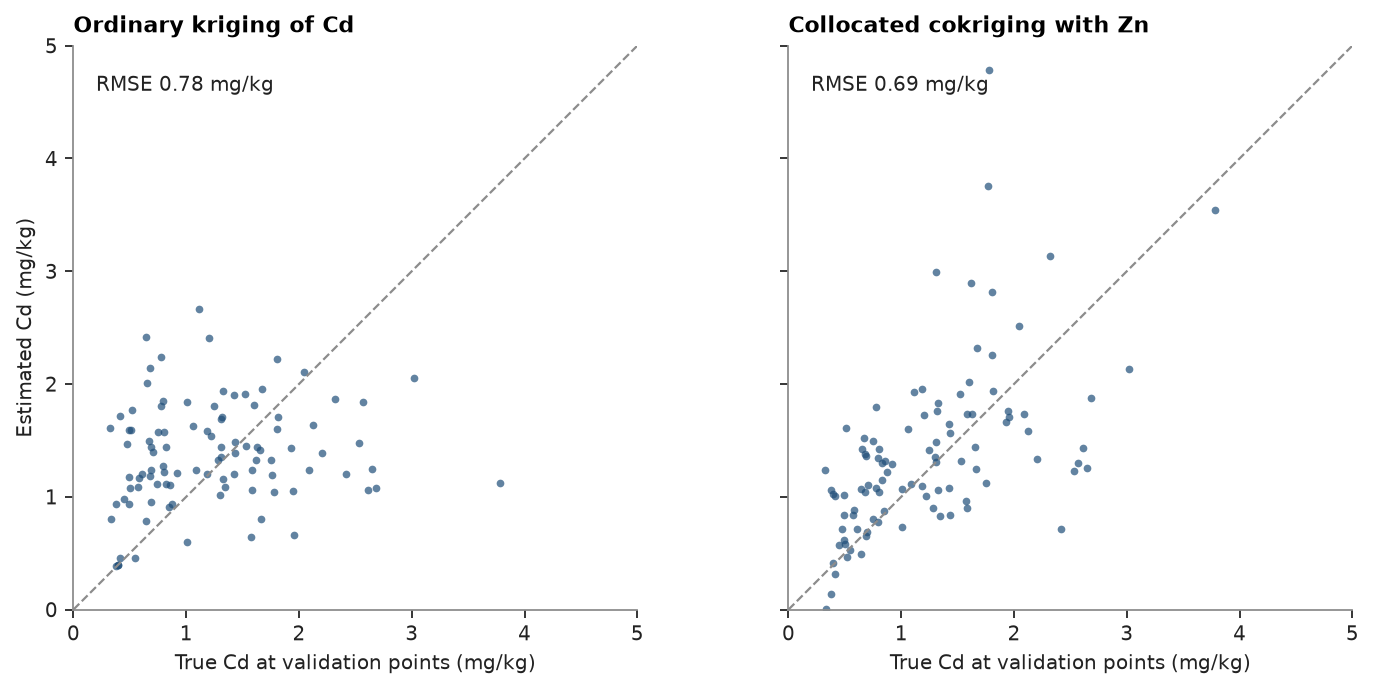
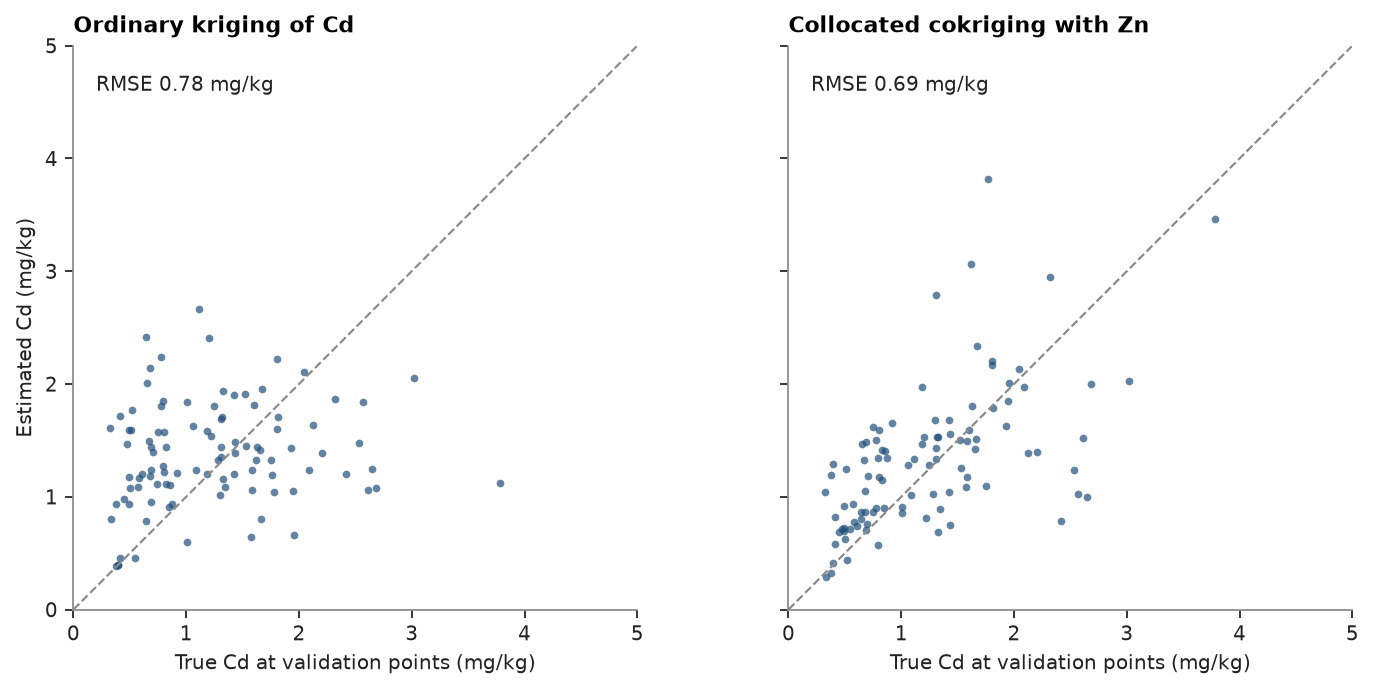
docs(examples): fit chapter 08's coregionalization automatically

diff --git a/examples/08-cokriging/example_08.py b/examples/08-cokriging/example_08.py
@@ -28,20 +28,25 @@ lag, max_lag = 0.1, 1.5
 
 
 # %% [markdown]
-# The coregionalization uses the intrinsic model: Cd and Zn share Cd's spherical structure and nugget share,
-# scaled by their covariance matrix.
+# The linear model of coregionalization is fitted to the Cd and Zn variograms and their cross-variogram, the half mean
+# product of the Cd and Zn increments between co-located samples, all together. The variables share the structures, a
+# nugget and two spherical ranges, and each structure's sill matrix stays positive semi-definite: its smallest
+# eigenvalue is never negative. The short structure takes the place of the nugget, which fits to zero.
 
 # %%
-cd_model = cs.experimental_variogram(xy, cd, lag, max_lag).fit("spherical")
-nugget_share = cd_model.nugget / cd_model.sill
-a = cd_model.structures[0].range
-print(f"Cd: nugget share {nugget_share:.2f}, range {a:.2f} km, corr(Cd, Zn) {rho:.2f}")
+experimentals = [
+    [
+        cs.experimental_variogram(xy, cd, lag, max_lag),
+        cs.experimental_variogram(xy, cd, lag, max_lag, other=zn),
+    ],
+    [None, cs.experimental_variogram(xy, zn, lag, max_lag)],
+]
+lmc = cs.Coregionalization.fit(experimentals, ["spherical", "spherical"])
+print(f"corr(Cd, Zn) {rho:.2f}")
+for name, matrix in [("nugget", lmc.nugget)] + [(f"{m} {a:.2f} km", s) for m, a, s in lmc.structures]:
+    print(f"{name}: {np.round(matrix, 3).tolist()}, smallest eigenvalue {np.linalg.eigvalsh(matrix)[0]:.3g}")
 
-cov = np.cov(cd, zn)
-lmc = cs.Coregionalization(
-    (nugget_share * cov).tolist(),
-    [("spherical", a, ((1 - nugget_share) * cov).tolist())],
-)
+cd_model = experimentals[0][0].fit("spherical")
 search = cs.Search(radius=1.5, max_samples=24, min_samples=4)
 ok = cs.OrdinaryKriging(cd_model, search).fit(xy, cd)
 ck = cs.Cokriging(lmc, search, means=[cd.mean(), zn.mean()])
@@ -49,18 +54,17 @@ ck.fit(np.vstack([xy, xy]), np.r_[cd, zn], [0] * len(cd) + [1] * len(zn))
 
 
 # %% [markdown]
-# The intrinsic model is only fitted to Cd, so check it against Zn and the cross-variogram, the half mean product of
-# the Cd and Zn increments between co-located samples. Each curve is the LMC's C(0) − C(h), and all three
-# experimental variograms scatter about the one shared shape:
+# Each curve is the fitted LMC's C(0) − C(h), and the three experimental variograms follow the shared short and long
+# structures in their own proportions:
 
 # %%
 h = np.linspace(0, max_lag, 101)[1:]
 origin = np.zeros((h.size, 3))
 away = np.c_[h, np.zeros((h.size, 2))]
 panels = (
-    (0, 0, "Cd", cs.experimental_variogram(xy, cd, lag, max_lag)),
-    (1, 1, "Zn", cs.experimental_variogram(xy, zn, lag, max_lag)),
-    (0, 1, "Cd × Zn", cs.experimental_variogram(xy, cd, lag, max_lag, other=zn)),
+    (0, 0, "Cd", experimentals[0][0]),
+    (1, 1, "Zn", experimentals[1][1]),
+    (0, 1, "Cd × Zn", experimentals[0][1]),
 )
 fig, axes = plt.subplots(1, 3, figsize=(10, 3.2), layout="constrained")
 for ax, (i, j, name, experimental) in zip(axes, panels):

diff --git a/examples/08-cokriging/README.md b/examples/08-cokriging/README.md
@@ -22,22 +22,27 @@ lag, max_lag = 0.1, 1.5
 
 </details>
 
-The coregionalization uses the intrinsic model: Cd and Zn share Cd's spherical structure and nugget share,
-scaled by their covariance matrix.
+The linear model of coregionalization is fitted to the Cd and Zn variograms and their cross-variogram, the half mean
+product of the Cd and Zn increments between co-located samples, all together. The variables share the structures, a
+nugget and two spherical ranges, and each structure's sill matrix stays positive semi-definite: its smallest
+eigenvalue is never negative. The short structure takes the place of the nugget, which fits to zero.
 
 <details><summary>Python</summary>
 
 ```python
-cd_model = cs.experimental_variogram(xy, cd, lag, max_lag).fit("spherical")
-nugget_share = cd_model.nugget / cd_model.sill
-a = cd_model.structures[0].range
-print(f"Cd: nugget share {nugget_share:.2f}, range {a:.2f} km, corr(Cd, Zn) {rho:.2f}")
+experimentals = [
+    [
+        cs.experimental_variogram(xy, cd, lag, max_lag),
+        cs.experimental_variogram(xy, cd, lag, max_lag, other=zn),
+    ],
+    [None, cs.experimental_variogram(xy, zn, lag, max_lag)],
+]
+lmc = cs.Coregionalization.fit(experimentals, ["spherical", "spherical"])
+print(f"corr(Cd, Zn) {rho:.2f}")
+for name, matrix in [("nugget", lmc.nugget)] + [(f"{m} {a:.2f} km", s) for m, a, s in lmc.structures]:
+    print(f"{name}: {np.round(matrix, 3).tolist()}, smallest eigenvalue {np.linalg.eigvalsh(matrix)[0]:.3g}")
 
-cov = np.cov(cd, zn)
-lmc = cs.Coregionalization(
-    (nugget_share * cov).tolist(),
-    [("spherical", a, ((1 - nugget_share) * cov).tolist())],
-)
+cd_model = experimentals[0][0].fit("spherical")
 search = cs.Search(radius=1.5, max_samples=24, min_samples=4)
 ok = cs.OrdinaryKriging(cd_model, search).fit(xy, cd)
 ck = cs.Cokriging(lmc, search, means=[cd.mean(), zn.mean()])
@@ -47,12 +52,14 @@ ck.fit(np.vstack([xy, xy]), np.r_[cd, zn], [0] * len(cd) + [1] * len(zn))
 </details>
 
 ```text
-Cd: nugget share 0.44, range 0.59 km, corr(Cd, Zn) 0.67
+corr(Cd, Zn) 0.67
+nugget: [[0.0, 0.0], [0.0, 0.0]], smallest eigenvalue 0
+spherical 0.15 km: [[0.69, 11.146], [11.146, 485.455]], smallest eigenvalue 0.434
+spherical 1.47 km: [[0.138, 6.658], [6.658, 437.931]], smallest eigenvalue 0.0368
 ```
 
-The intrinsic model is only fitted to Cd, so check it against Zn and the cross-variogram, the half mean product of
-the Cd and Zn increments between co-located samples. Each curve is the LMC's C(0) − C(h), and all three
-experimental variograms scatter about the one shared shape:
+Each curve is the fitted LMC's C(0) − C(h), and the three experimental variograms follow the shared short and long
+structures in their own proportions:
 
 <details><summary>Python</summary>
 
@@ -61,9 +68,9 @@ h = np.linspace(0, max_lag, 101)[1:]
 origin = np.zeros((h.size, 3))
 away = np.c_[h, np.zeros((h.size, 2))]
 panels = (
-    (0, 0, "Cd", cs.experimental_variogram(xy, cd, lag, max_lag)),
-    (1, 1, "Zn", cs.experimental_variogram(xy, zn, lag, max_lag)),
-    (0, 1, "Cd × Zn", cs.experimental_variogram(xy, cd, lag, max_lag, other=zn)),
+    (0, 0, "Cd", experimentals[0][0]),
+    (1, 1, "Zn", experimentals[1][1]),
+    (0, 1, "Cd × Zn", experimentals[0][1]),
 )
 fig, axes = plt.subplots(1, 3, figsize=(10, 3.2), layout="constrained")
 for ax, (i, j, name, experimental) in zip(axes, panels):
@@ -98,7 +105,7 @@ print(f"validation RMSE: ordinary kriging {rmse(by_ok):.3f}, collocated cokrigin
 </details>
 
 ```text
-validation RMSE: ordinary kriging 0.777, collocated cokriging 0.691 mg/kg
+validation RMSE: ordinary kriging 0.777, collocated cokriging 0.689 mg/kg
 ```
 
 Indicator kriging estimates the probability that Cd exceeds 0.8 mg/kg, the Swiss guide value, from the indicator
